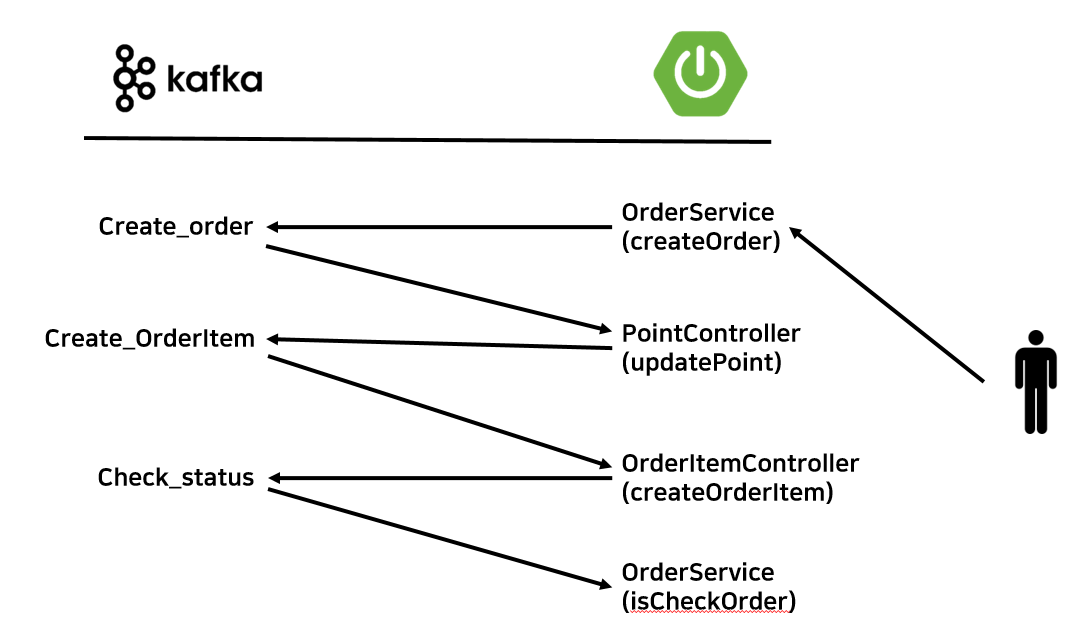
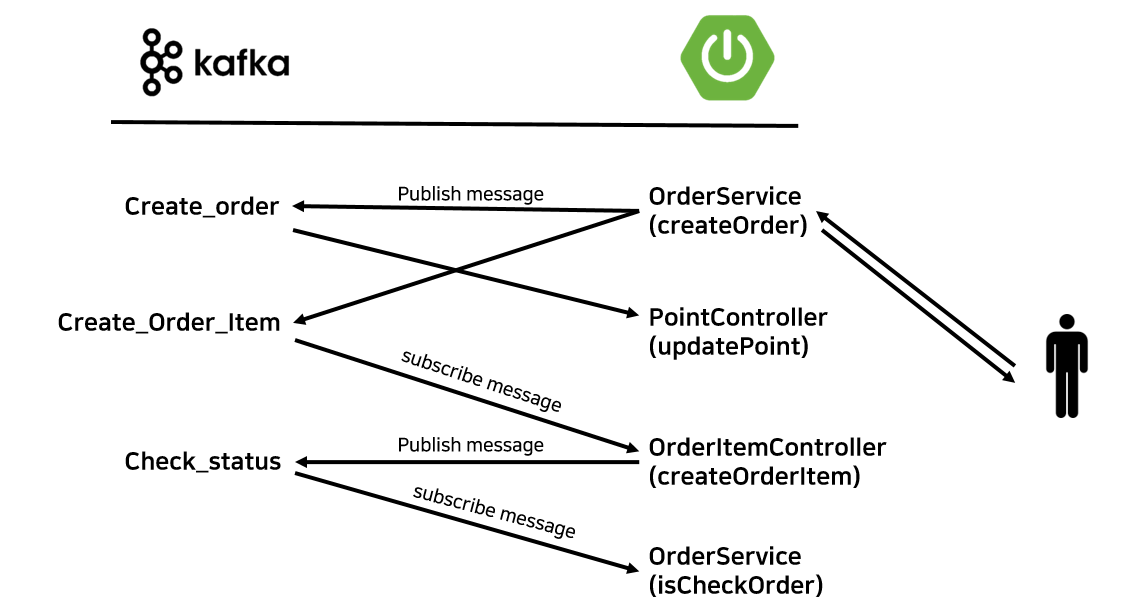
Doc : README.md 기술 스택 및 텍스트 추가

Changed region(s): [[0.0311, 0.311, 0.9652, 0.9951], [0.0934, 0.0, 0.7161, 0.2488]]

diff --git a/README.md b/README.md
@@ -1,7 +1,52 @@
 # NextNovel 결제 시스템
 ---
+## 목차
+
+1.[기술 스택](#1.-기술-스택) </br>
+2.[결제 수행 로직](#2.-결제-수행-로직) </br>
+3.[프로젝트 구조](#3.-프로젝트-구조)
+
+## 1. 기술 스택
+
+---
+
+![kafka_screenshot](./img/stack.png)
+
+### Spring Boot
+웹 서버를 구현하기 위한 프레임워크로 MSA 구현을 위한 Spring cloud와 </br>
+데이터베이스 접근 기술로 ORM 방식의 영속 데이터관리가 가능한 JPA(Java Persistence API)를 사용하였습니다.
+
+### Apache Kafka
+도메인간의 데이터 송/수신을 위한 Message Queue로 선택한 이벤트 스트리밍 플랫폼입니다.
+Java에서 사용가능한 라이브러리를 import하여 결제 과정을 구현하였습니다.
+
+### bootpay
+결제요청을 위한 PG 플랫폼입니다. 해당 플랫폼에서 제공하는 API를 활용하여
+결제 정보를 생성,삭제 등의 과정을 수행합니다.
+
+### MySQL
+결제 정보, 상품, 주문 상품, 사용자 포인트의 관리를 위해 사용하는 데이터베이스입니다.
+
+## 2.결제 수행 로직
+
+---
 
 ![kafka_screenshot](./img/kafka.png)
+
+1. 사용자가 요청을 수행합니다.
+2. Order-Service 프로젝트에서 bootpay를 통한 결제정보 검증 및 DB에 들어갈 데이터 생성을 수행합니다. 
+이후 Point-service와 OrderItem-service와 연결된 토픽에 메시지를 전달합니다. 
+3. Point-service에서 전달받은 정보를 바탕으로 사용자의 충전된 값을 갱신합니다.
+4. OrderItem-service에서 전달받은 정보를 바탕으로 사용자의 주문과 상품 정보를 저장합니다. 정상적으로 저장되었을 경우, 다시 Order-service에 정상적으로 저장되었음을 보냅니다.
+5. Order-service는 상태관련 정보를 받아와 주문의 상태를 성공으로 바꿉니다.
+
+## 3. 프로젝트 구조
+
+---
+
+MSA 기반의 프로젝트를 구상했기 때문에 이를 위해 기존의 모놀리식 프로젝트를 
+멀티모듈 구조로 프로젝트를 재구성했습니다.
+
 ```
 PaymentsService
 ├─core
